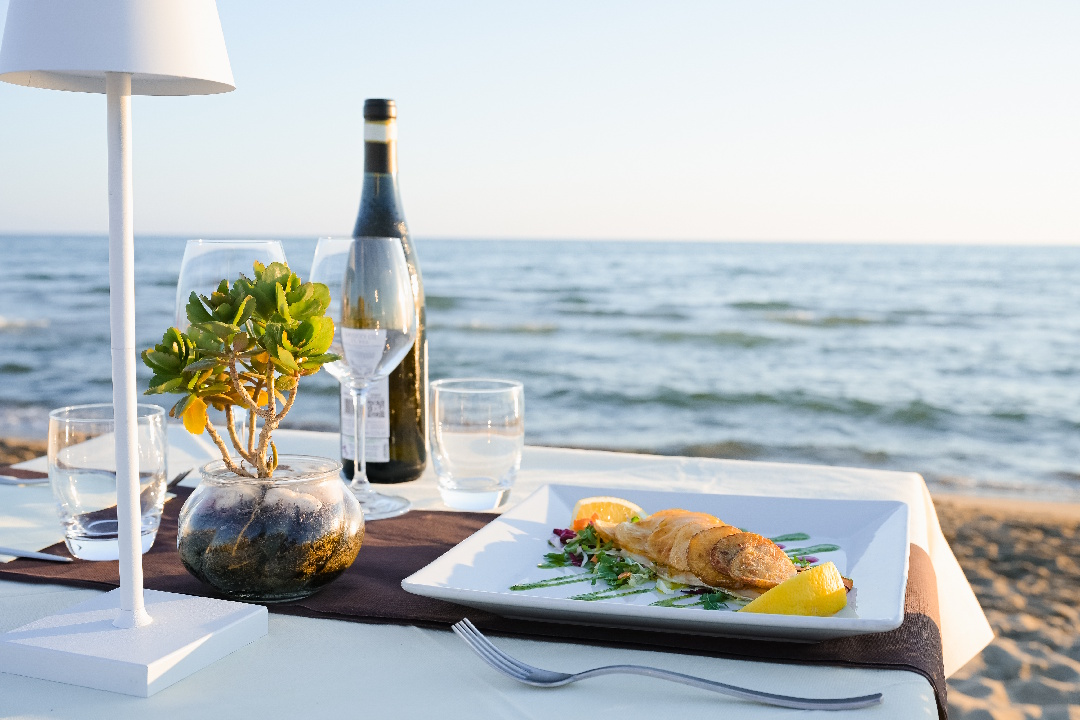
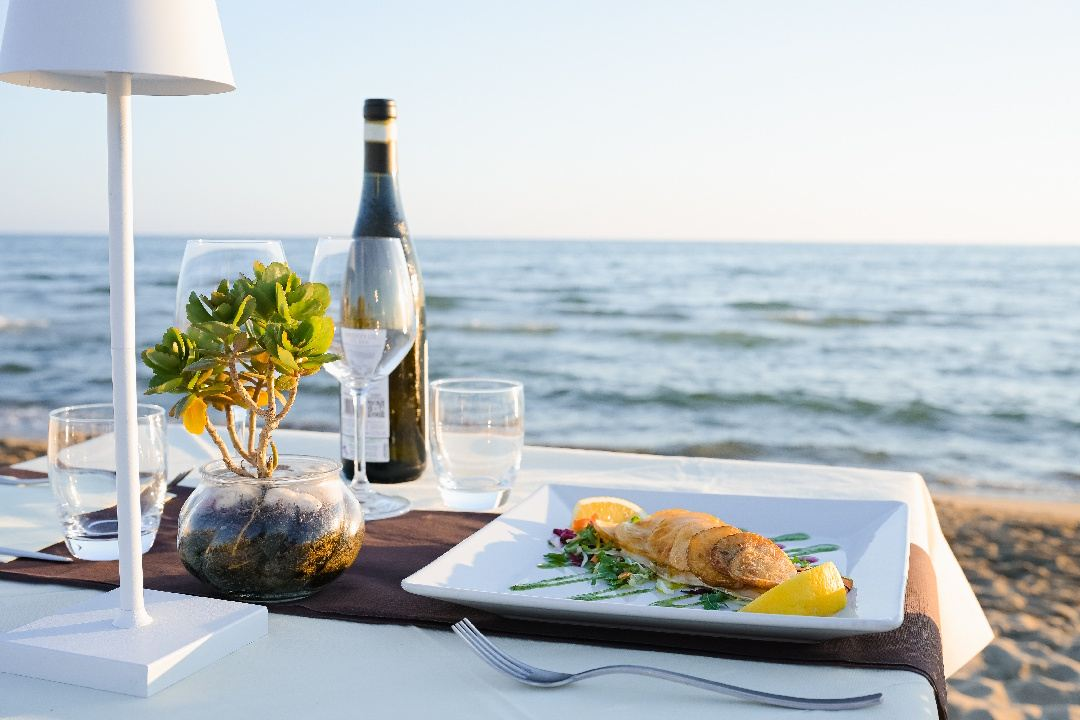
Foto più leggere
Le foto passano da circa 17 MB a meno di 2 MB: pinodoro126.JPG (sfondo della
storia, 6048 px) ridotta a 1920 px, bg.png (senza trasparenza) diventa bg.jpg,
le altre ricompresse in JPEG qualità 80 con le stesse misure. Le immagini sotto
la prima schermata si caricano con loading="lazy".

diff --git a/index.html b/index.html
@@ -53,7 +53,7 @@
     <body style="margin:0px">
     <link rel="stylesheet" href="styles.css">
 
-    <section style="background-image: url('foto/bg.png'); height: 100vh; background-repeat: no-repeat; background-size: cover; background-attachment: scroll;">
+    <section style="background-image: url('foto/bg.jpg'); height: 100vh; background-repeat: no-repeat; background-size: cover; background-attachment: scroll;">
         <div class="mainlanding">
             <div style="position: static; top: 3vh; width: 100%; margin:0;">
                 <img class="main_logo" src="logo.png">
@@ -153,17 +153,17 @@
       <i style="opacity: 40%">scorri a destra...</i>
       <div class="contenitore-immagini">
         <div class="contenitore-pag1" style="grid-template-columns: 1fr 1fr; align-items: center; justify-content: center;">
-          <img class="foto_galleria" src="foto/galleria/foto-1.jpg">
-          <img class="foto_galleria" src="foto/galleria/foto-3.jpg">
-          <img class="foto_galleria" src="foto/galleria/foto-2.jpg">
-          <img class="foto_galleria" src="foto/galleria/foto-4.jpg">
-          <img class="foto_galleria" src="foto/galleria/foto-5.jpg">
+          <img loading="lazy" class="foto_galleria" src="foto/galleria/foto-1.jpg">
+          <img loading="lazy" class="foto_galleria" src="foto/galleria/foto-3.jpg">
+          <img loading="lazy" class="foto_galleria" src="foto/galleria/foto-2.jpg">
+          <img loading="lazy" class="foto_galleria" src="foto/galleria/foto-4.jpg">
+          <img loading="lazy" class="foto_galleria" src="foto/galleria/foto-5.jpg">
           <br>
-          <img class="foto_galleria" src="foto/galleria/foto-6.jpg">
-          <img class="foto_galleria" src="foto/galleria/foto-7.jpg">
-          <img class="foto_galleria" src="foto/galleria/foto-8.jpg">
-          <img class="foto_galleria" src="foto/galleria/foto-9.jpg">
-          <img class="foto_galleria" src="foto/galleria/foto-10.jpg">
+          <img loading="lazy" class="foto_galleria" src="foto/galleria/foto-6.jpg">
+          <img loading="lazy" class="foto_galleria" src="foto/galleria/foto-7.jpg">
+          <img loading="lazy" class="foto_galleria" src="foto/galleria/foto-8.jpg">
+          <img loading="lazy" class="foto_galleria" src="foto/galleria/foto-9.jpg">
+          <img loading="lazy" class="foto_galleria" src="foto/galleria/foto-10.jpg">
         </div>
       </div>
       <div class="contenitore-immagini-puntini">
@@ -176,7 +176,7 @@
     <section id="piatto-piuordinato">
       <img src="foto/cerchi.svg" style="position:absolute; z-index: -1; width: 60%;">
       <h1 class="piatto-piuordinato-titolo">★ Il Piatto più ordinato del mese</h1>
-      <img class="piatto-foto" src="foto/piatto.png" style="position: absolute; z-index: -1; overflow-x: hidden; right:30%;">
+      <img loading="lazy" class="piatto-foto" src="foto/piatto.png" style="position: absolute; z-index: -1; overflow-x: hidden; right:30%;">
       <h3 class="titolo-piatto"><u><i>Lo spaghetto del pino d'oro</i></u></h3>
       <span class="desc-piatto" style="font-family: 'Century Gothic'">
       Lupini pescati del nostro Tirreno. Il sapore di mare che le vongole d'allevamento non hanno più.<br><br>
@@ -195,7 +195,7 @@
         <div class="menu1">
           <div class="menu-immagine">
             <div class="sfumaturafotomenu"></div>
-            <img src="foto/terrazza-mare-720.jpg" style="object-fit: cover;">
+            <img loading="lazy" src="foto/terrazza-mare-720.jpg" style="object-fit: cover;">
           </div>
           <div style="padding: 6%; padding-top: 0;">
           <div class="menu-testo">
@@ -241,7 +241,7 @@
         <div class="menu1">
           <div class="menu-immagine">
             <div class="sfumaturafotomenu"></div>
-            <img src="foto/ANG2483.jpg" style="object-fit: cover;">
+            <img loading="lazy" src="foto/ANG2483.jpg" style="object-fit: cover;">
           </div>
           <div style="padding: 6%; padding-top: 0;">
           <div class="menu-testo">
@@ -283,7 +283,7 @@
         <div class="menu1">
           <div class="menu-immagine">
             <div class="sfumaturafotomenu"></div>
-            <img src="foto/lidobrindisi.jpg" style="object-fit: cover;">
+            <img loading="lazy" src="foto/lidobrindisi.jpg" style="object-fit: cover;">
           </div>
           <div style="padding: 6%; padding-top: 0; height: 100%;">
           <div class="menu-testo">
